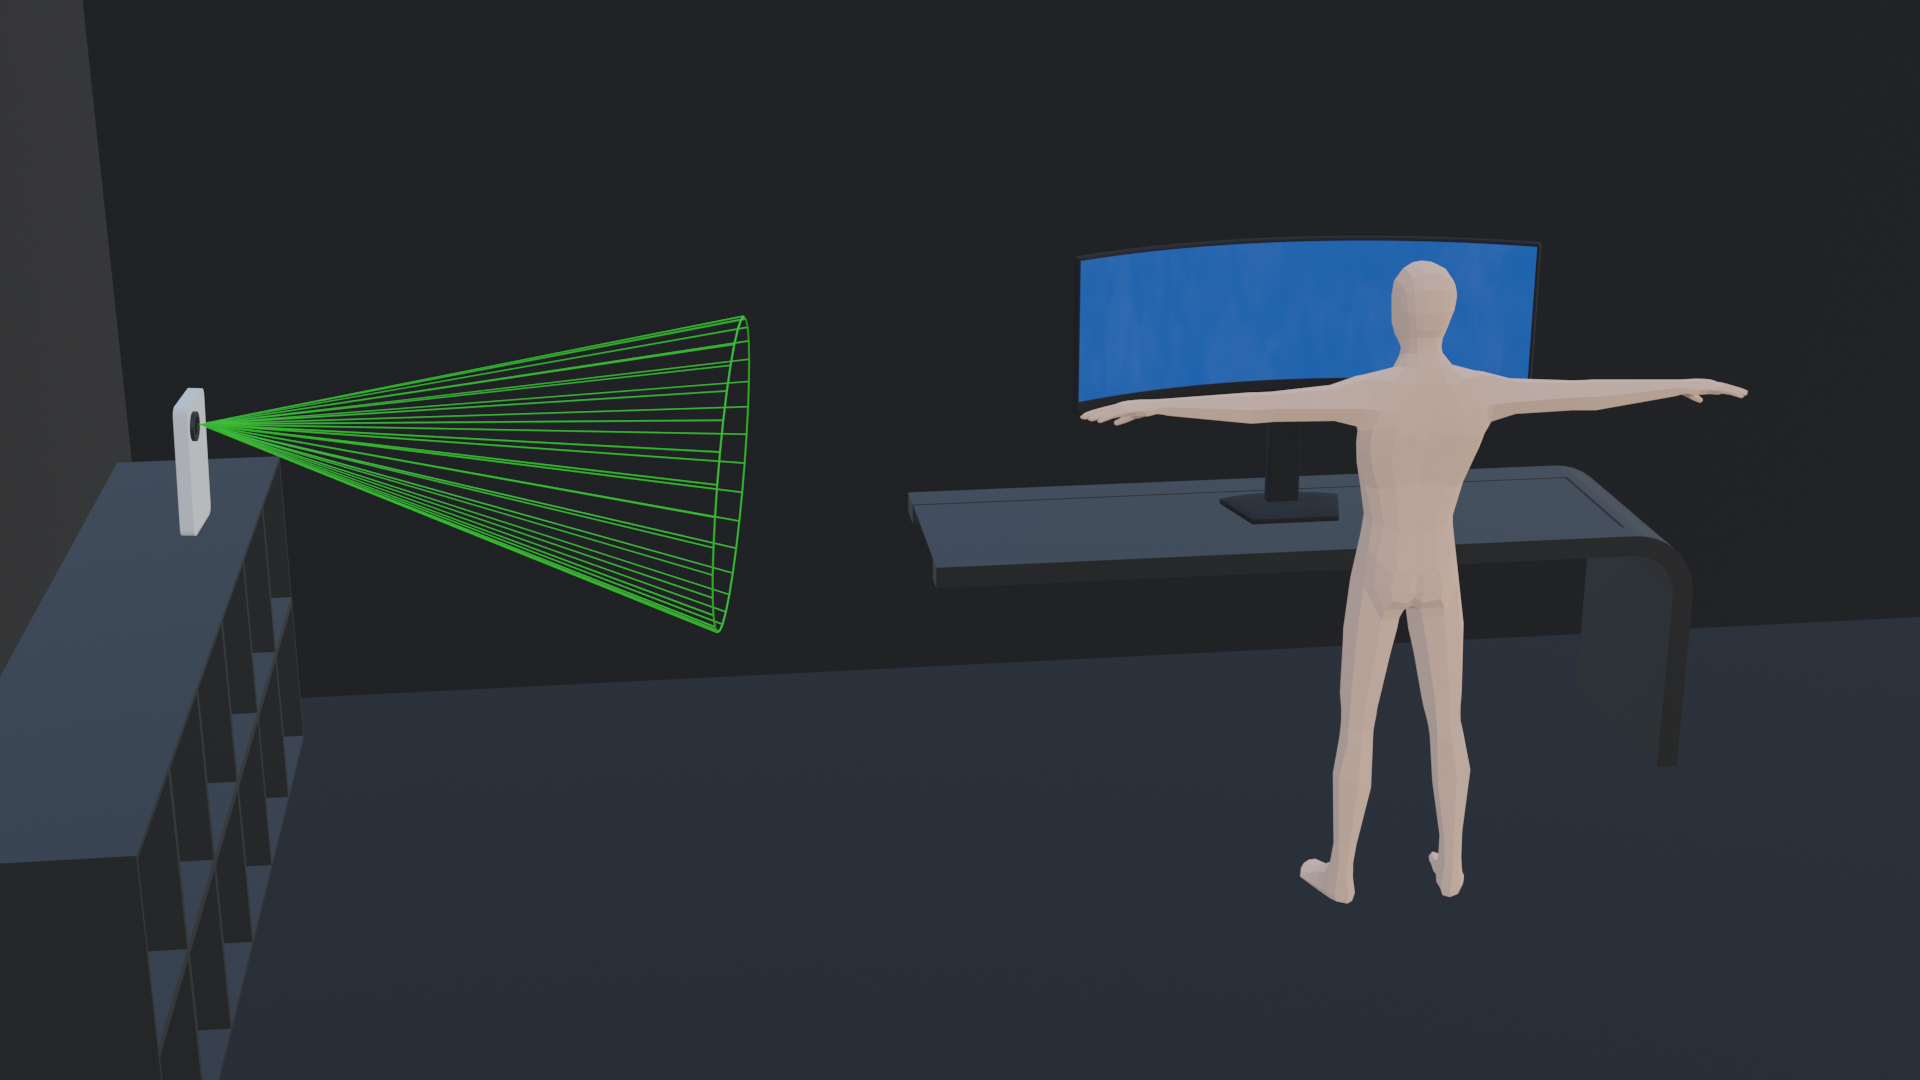
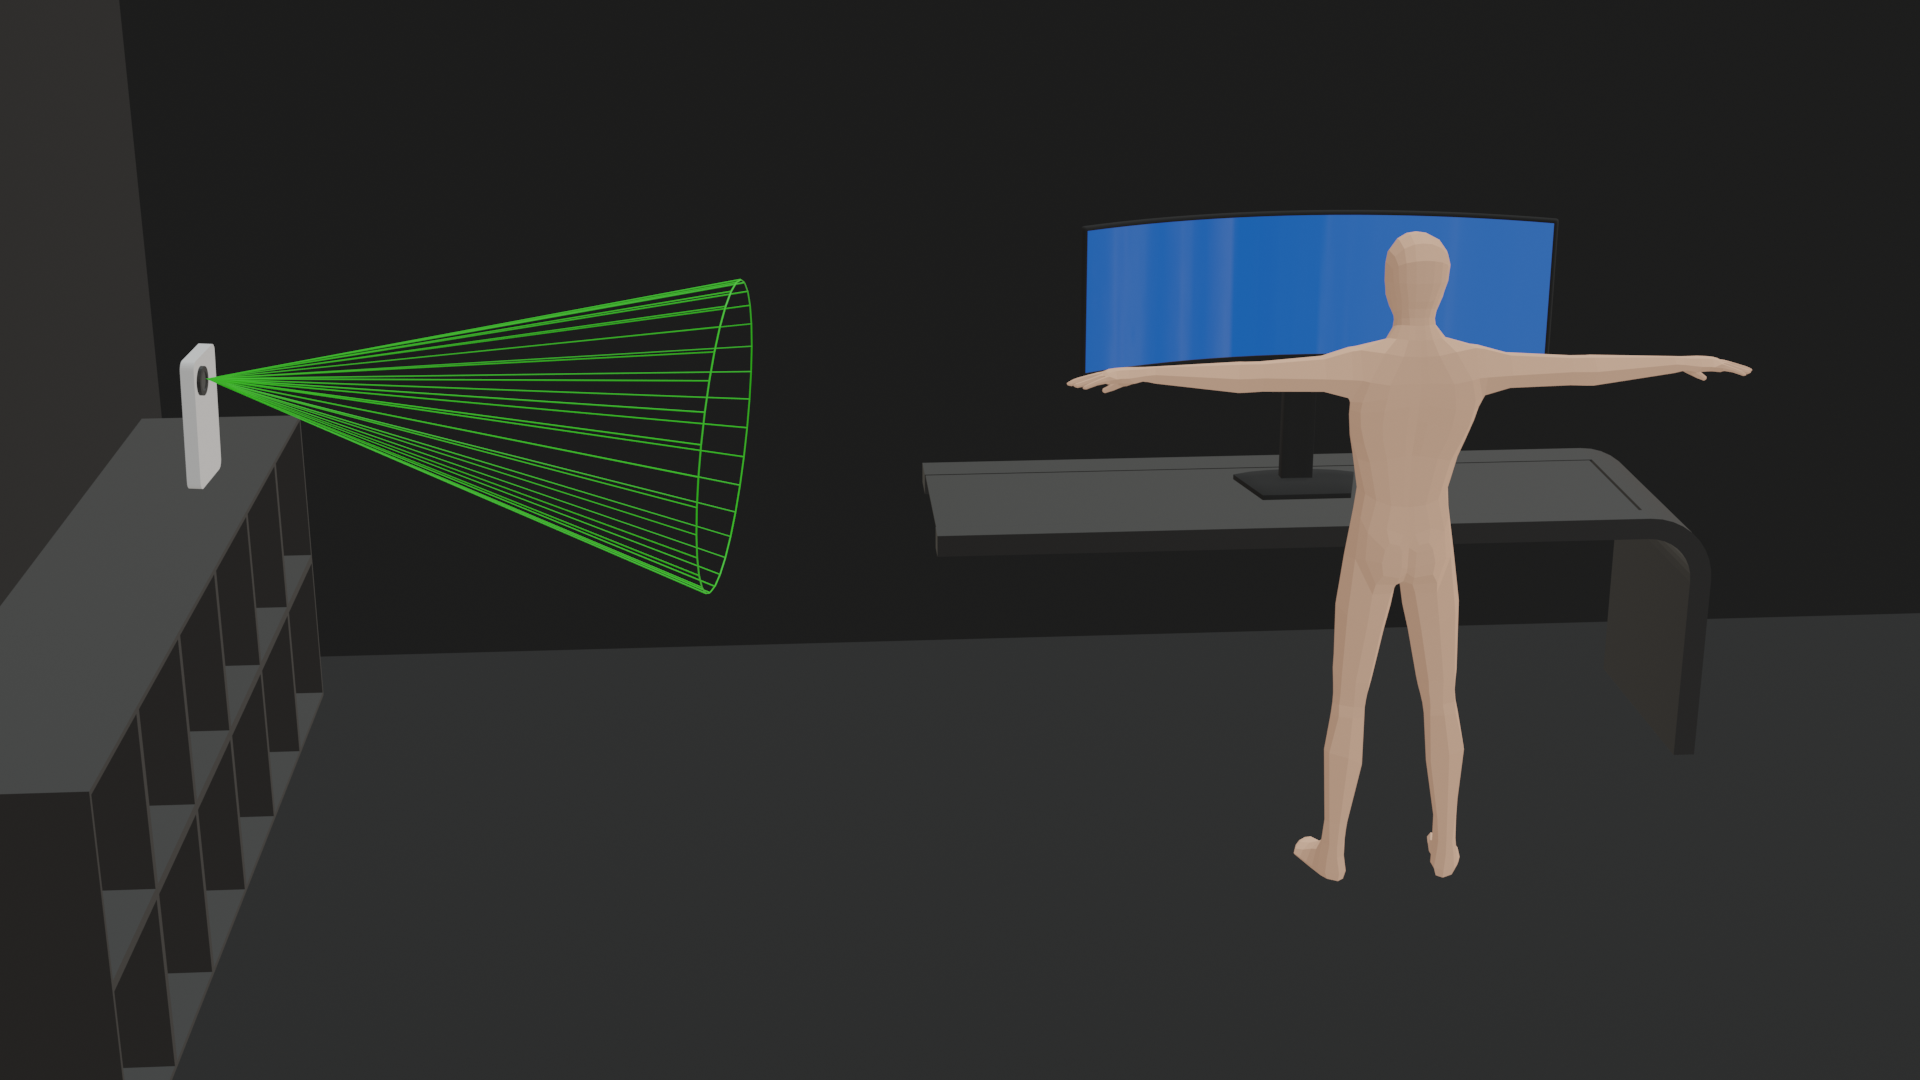
Renaming some things. updating readme

Changed region(s): [[0.0, 0.2444, 0.4062, 1.0], [0.4688, 0.1833, 0.9062, 0.8556]]

diff --git a/README.md b/README.md
@@ -21,7 +21,7 @@ Ideally, you want it from the side and like 8-10 feet away.
 ![Side View](side-view.png)
 
 Once I get the alerting/reporting apps up and running, you'll be able to use the `webcam-posture-tracker` app on your phone/whatever and view your live data on a desktop/laptop seperately.
-![Side View](side-view.png)
+![Side View](humanoid.png)
 
 ## Run locally
 If you want to run this locally, you can do that with
